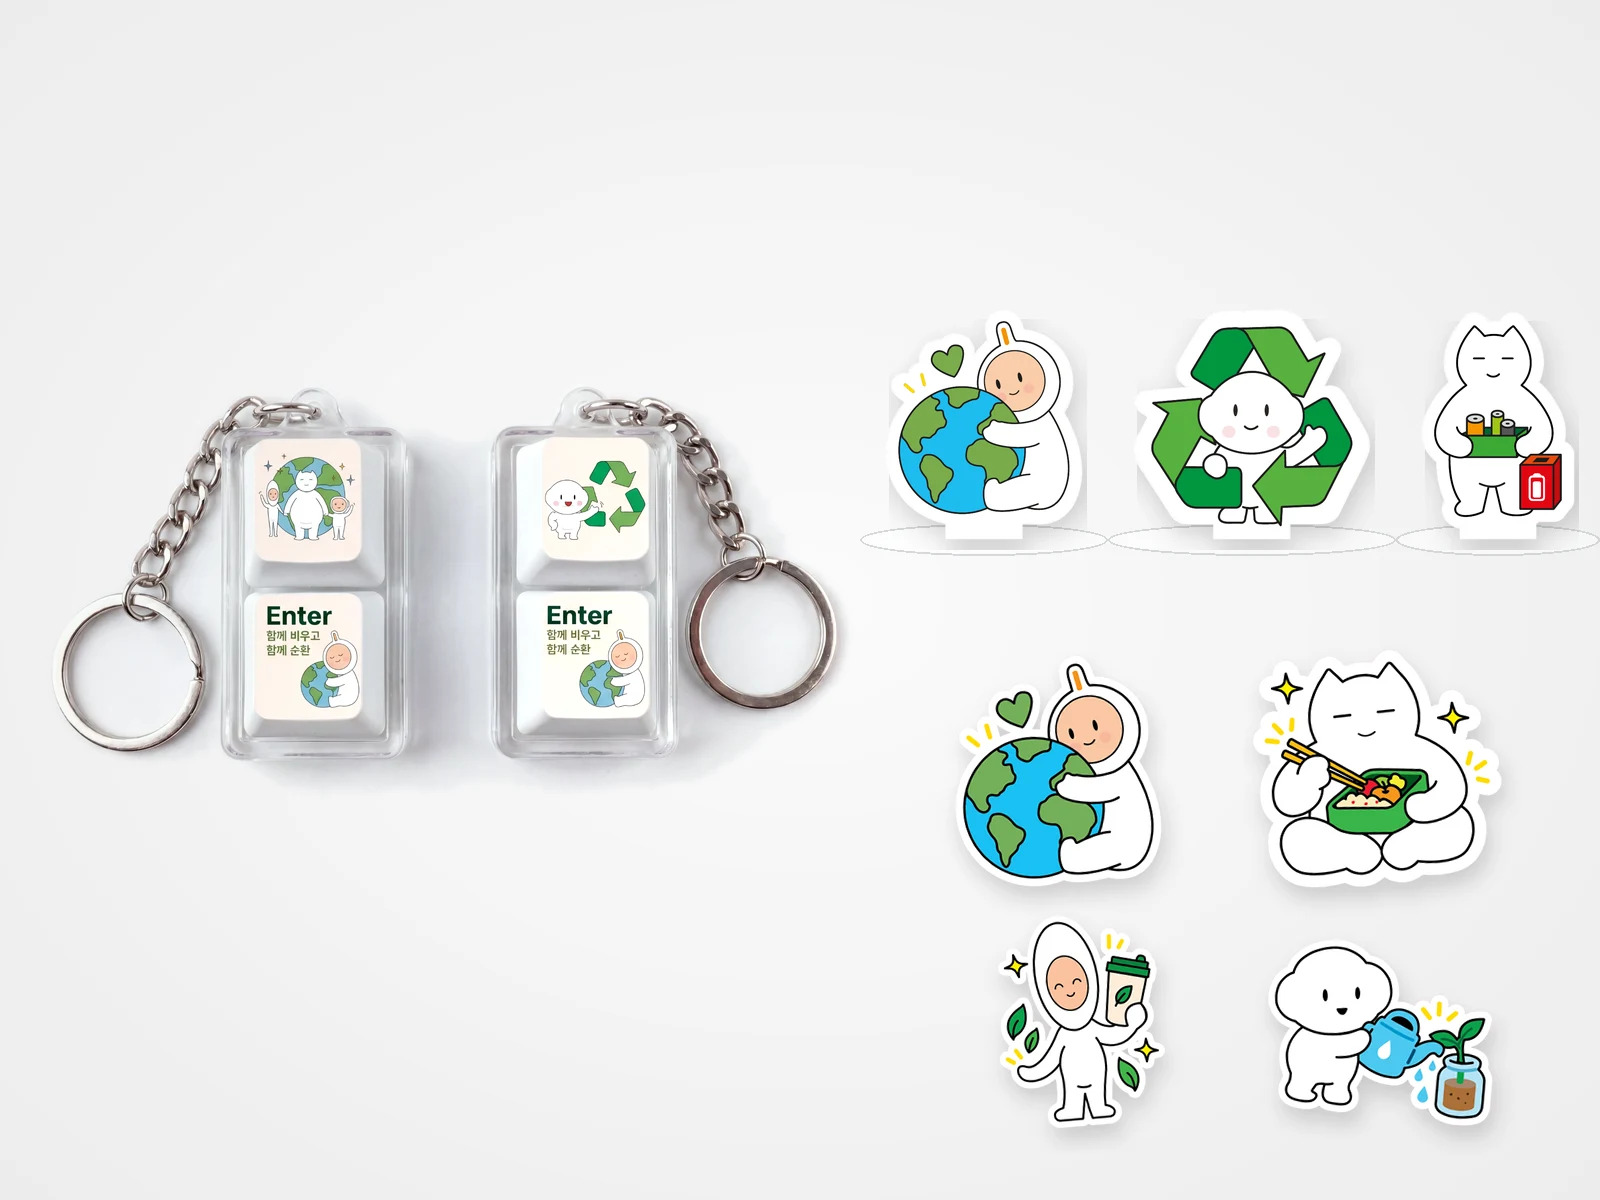
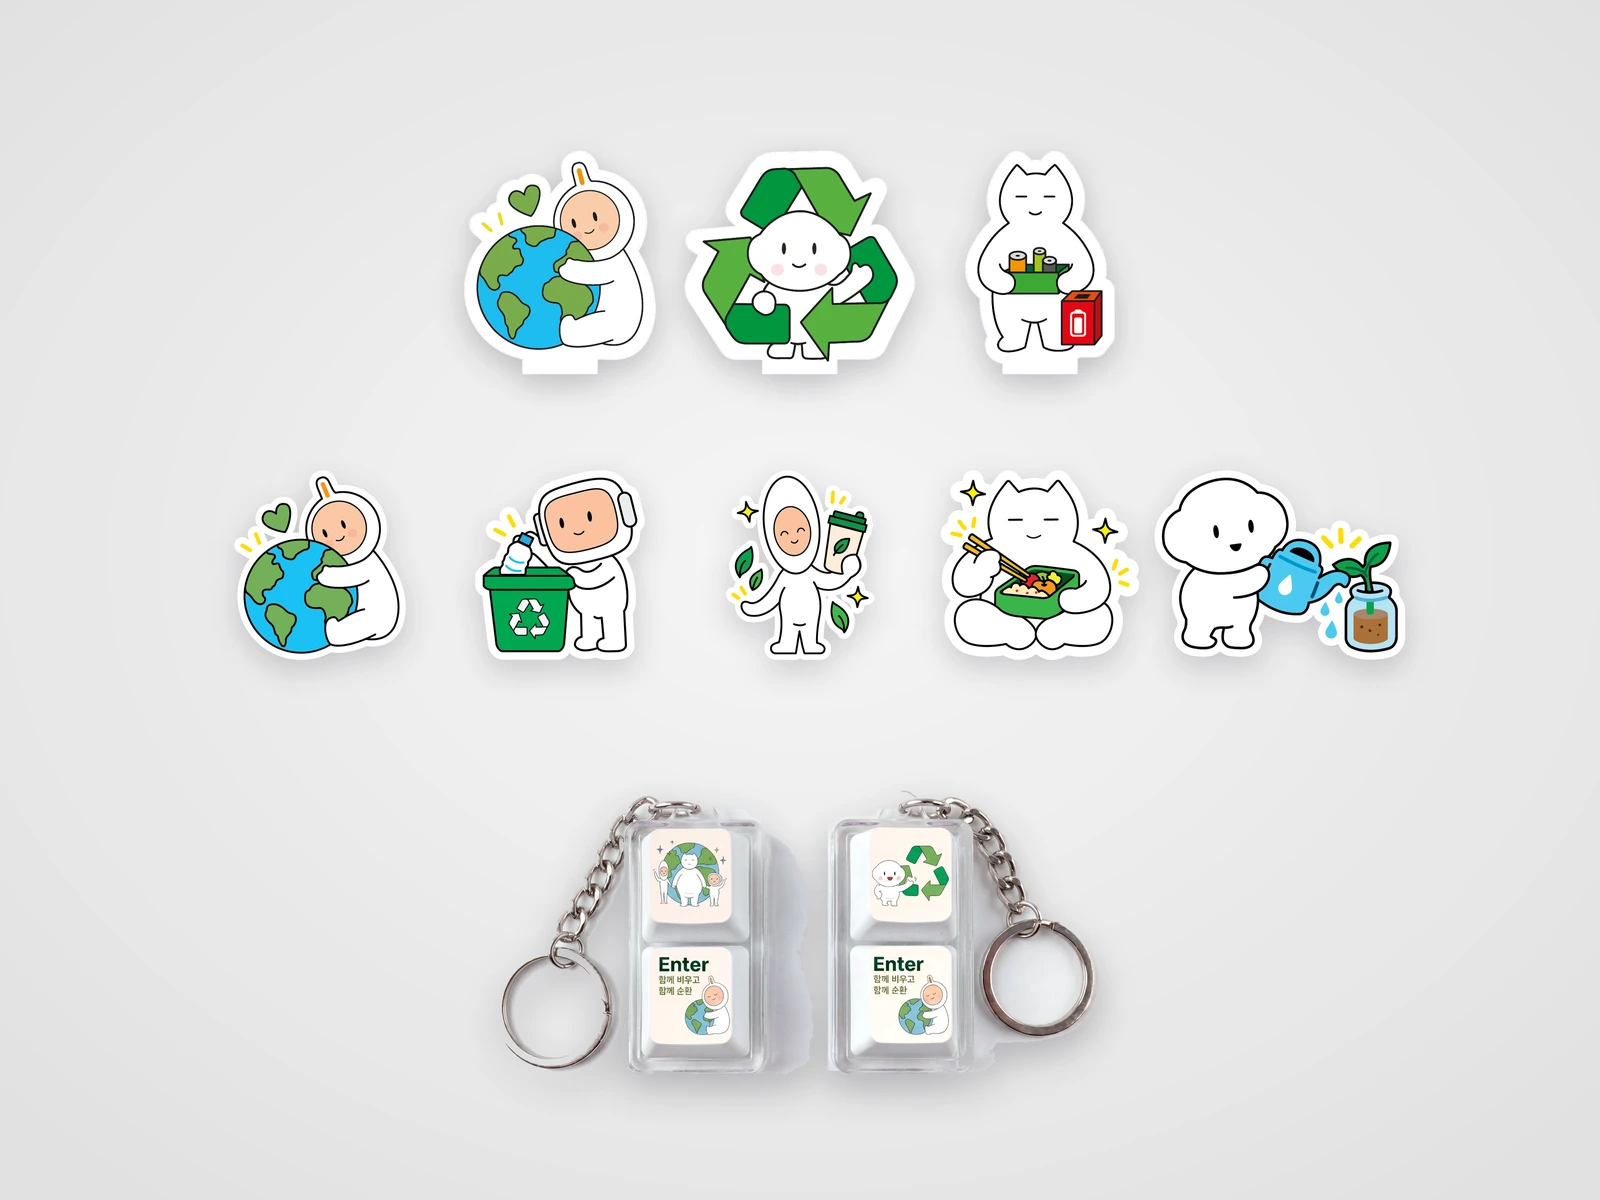
ESG Campaign Goods thumbnail: aligned rows, keycap keyrings at bottom
Claude-Session: https://claude.ai/code/session_01BFCG5mZW9hgWuvcjPHNUrC

diff --git a/index.html b/index.html
@@ -5087,7 +5087,7 @@ const WORKS=[
   {title:'KAON Friends 3D Guidelines', page:'kf3d', img:'assets/kf3d/thumb.webp?v=3', sub:'KAON GROUP', tag:'Character IP · Guideline', period:'2026.11', cat:['brand','ai'], scene:3,
    kr:'가온프렌즈 3D 캐릭터 아이덴티티 매뉴얼과 AI 제작 기준 (41p)', role:'캐릭터 가이드라인 기획·디자인', client:'가온그룹', tools:'Illustrator, Generative AI',
    kpis:[], ch:'', ap:'', out:''},
-  {title:'KAON ESG Campaign Goods', page:'keycap', img:'assets/keycap/thumb.webp?v=7', sub:'KAON GROUP', tag:'Campaign · Character Goods', period:'2026.03 — 10', cat:['brand'], scene:3,
+  {title:'KAON ESG Campaign Goods', page:'keycap', img:'assets/keycap/thumb.webp?v=8', sub:'KAON GROUP', tag:'Campaign · Character Goods', period:'2026.03 — 10', cat:['brand'], scene:3,
    kr:'ESG 자원순환 캠페인 1·2차 — 캠페인 비주얼과 키캡 키링·아크릴 피규어·스티커 굿즈', role:'캠페인 비주얼 · 굿즈 기획 · 아트워크 디자인', client:'가온그룹 ESG팀', tools:'Illustrator',
    kpis:[], ch:'', ap:'', out:''},
   {title:'KAON Friends 2027 Calendar', page:'calendar', img:'assets/calendar/thumb.webp?v=7', sub:'KAON GROUP', tag:'AI Artwork · Calendar', period:'2026', cat:['ai','brand','content'], scene:3,
